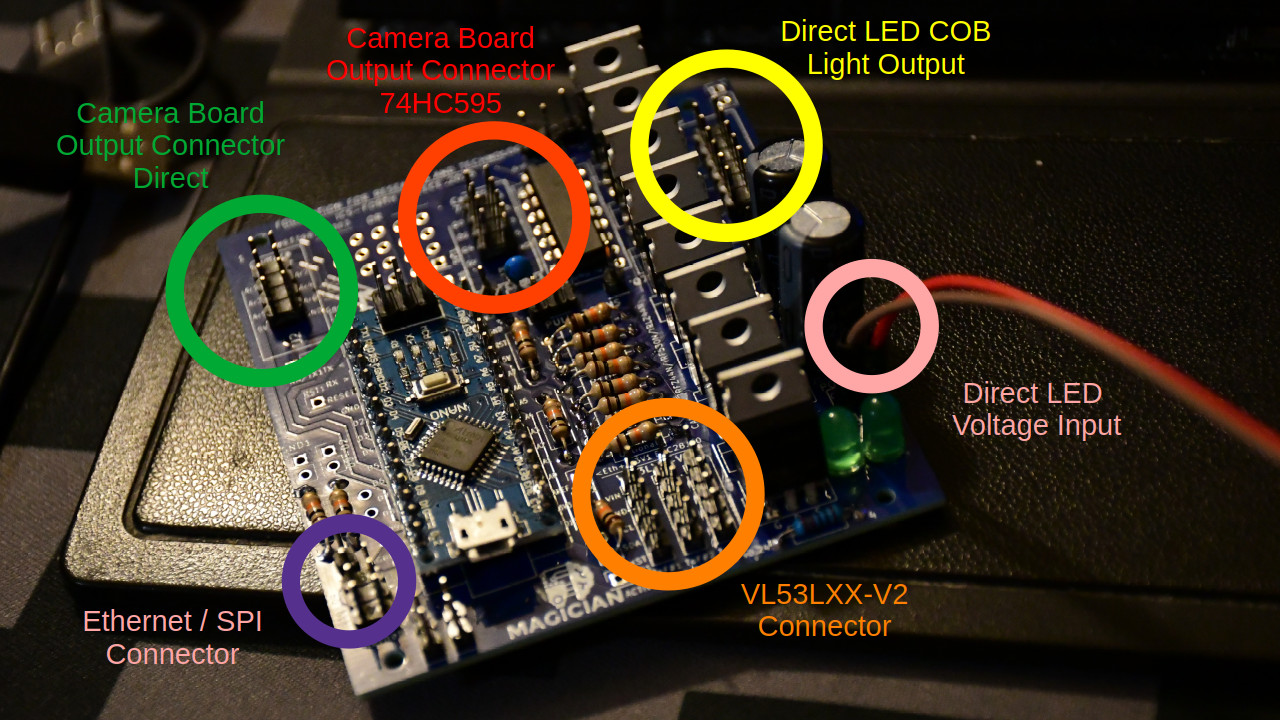
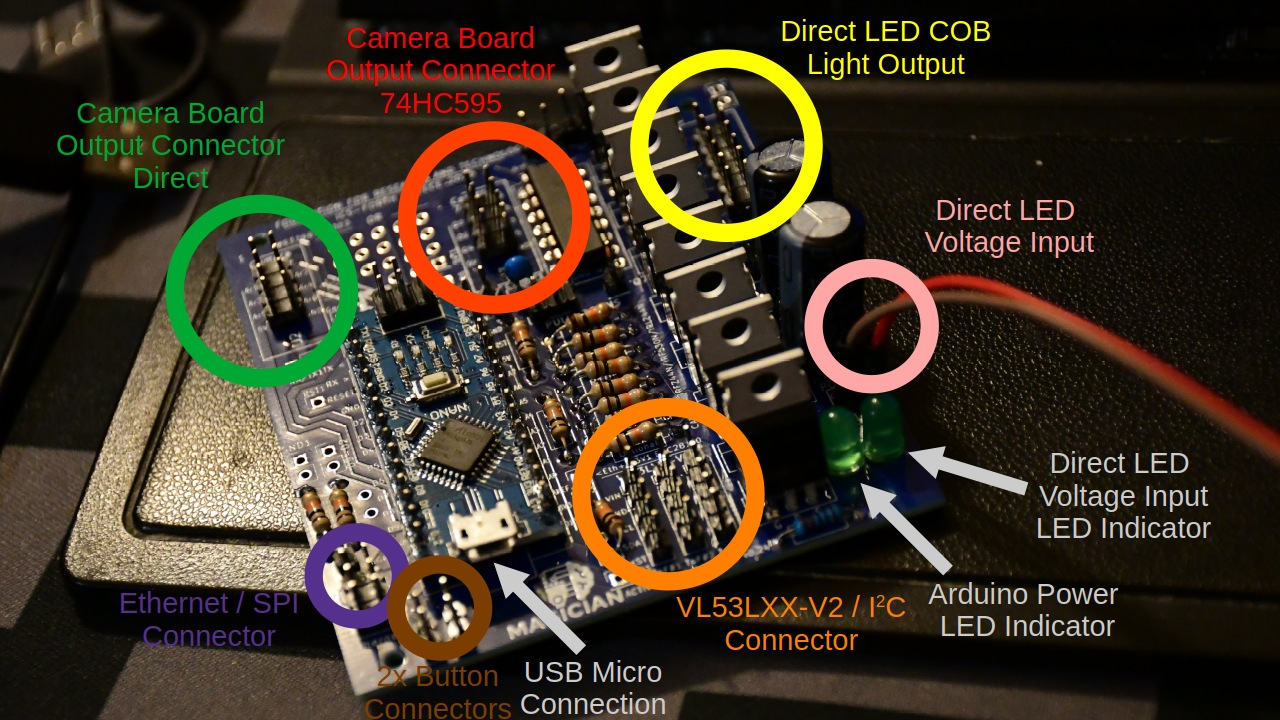
...

diff --git a/README.md b/README.md
@@ -36,9 +36,9 @@ The firmware cycles lights automatically, can react to distance sensor readings,
 ![Magician Main Board close-up](https://github.com/magician-project/magician_main_board/blob/main/doc/board.jpg?raw=true) 
 
 ## Setup
-TODO: Write here about the camera board of Giulio
 
-![Magician Main Board close-up](https://github.com/magician-project/magician_main_board/blob/main/doc/pcb.jpg?raw=true) 
+Important: Before connecting the board, [read the following guide](doc/connectors.md)!
+
 
 ## Hardware Components
 

diff --git a/doc/connectors.md b/doc/connectors.md
@@ -6,3 +6,4 @@ Due to Magician being a research project (with a pending cascade funding round),
 as expandable as possible .
 
 
+![Magician Main Board close-up](https://github.com/magician-project/magician_main_board/blob/main/doc/pcb.jpg?raw=true) 
